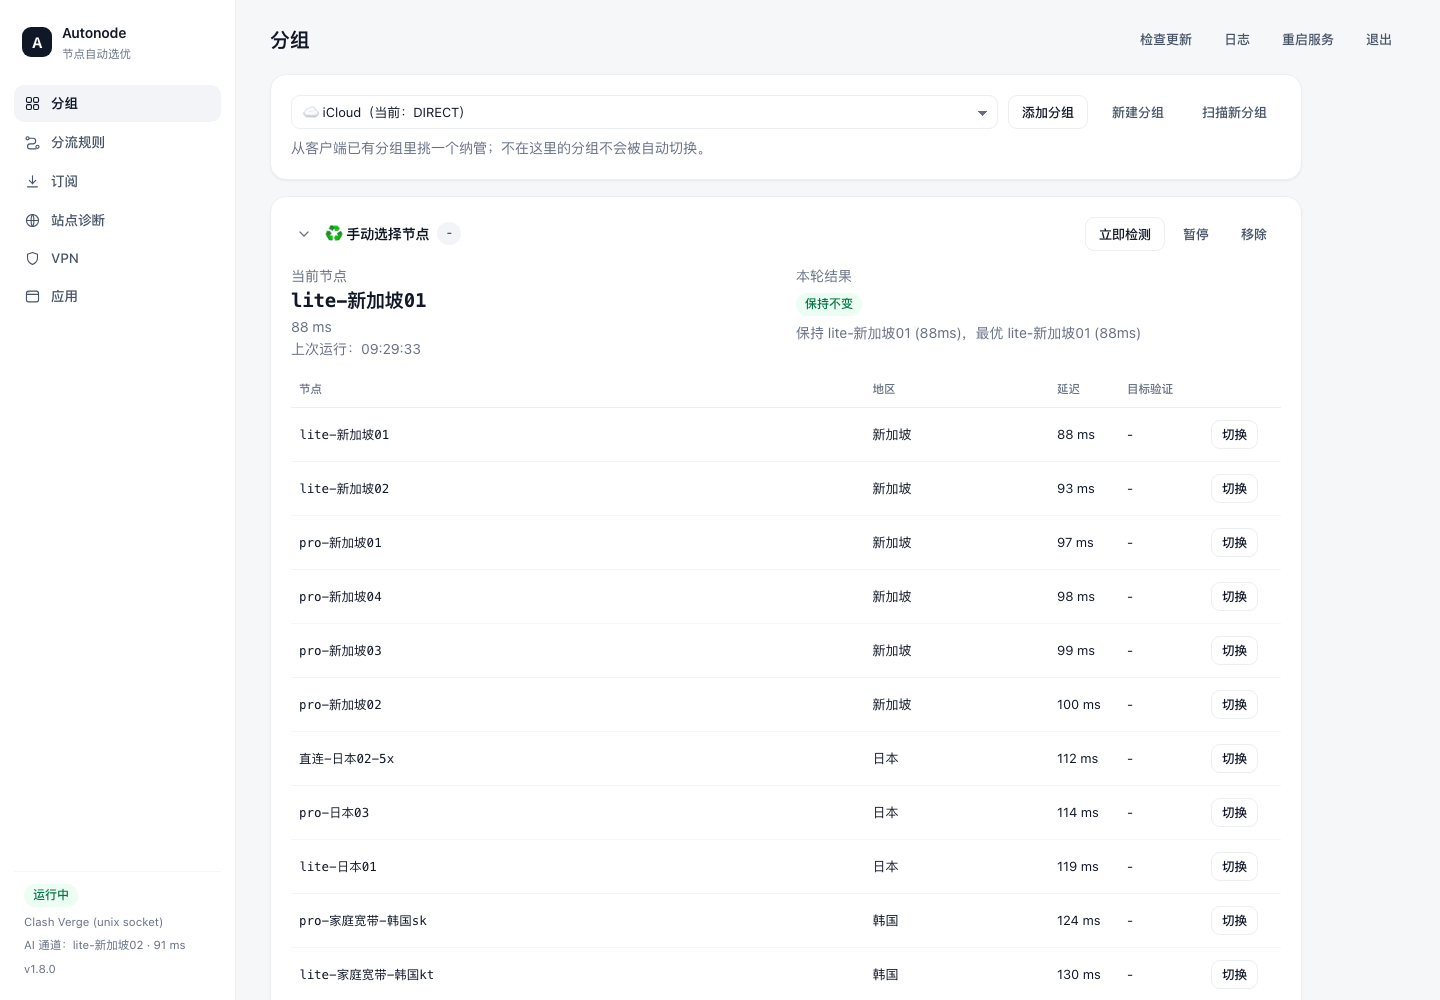
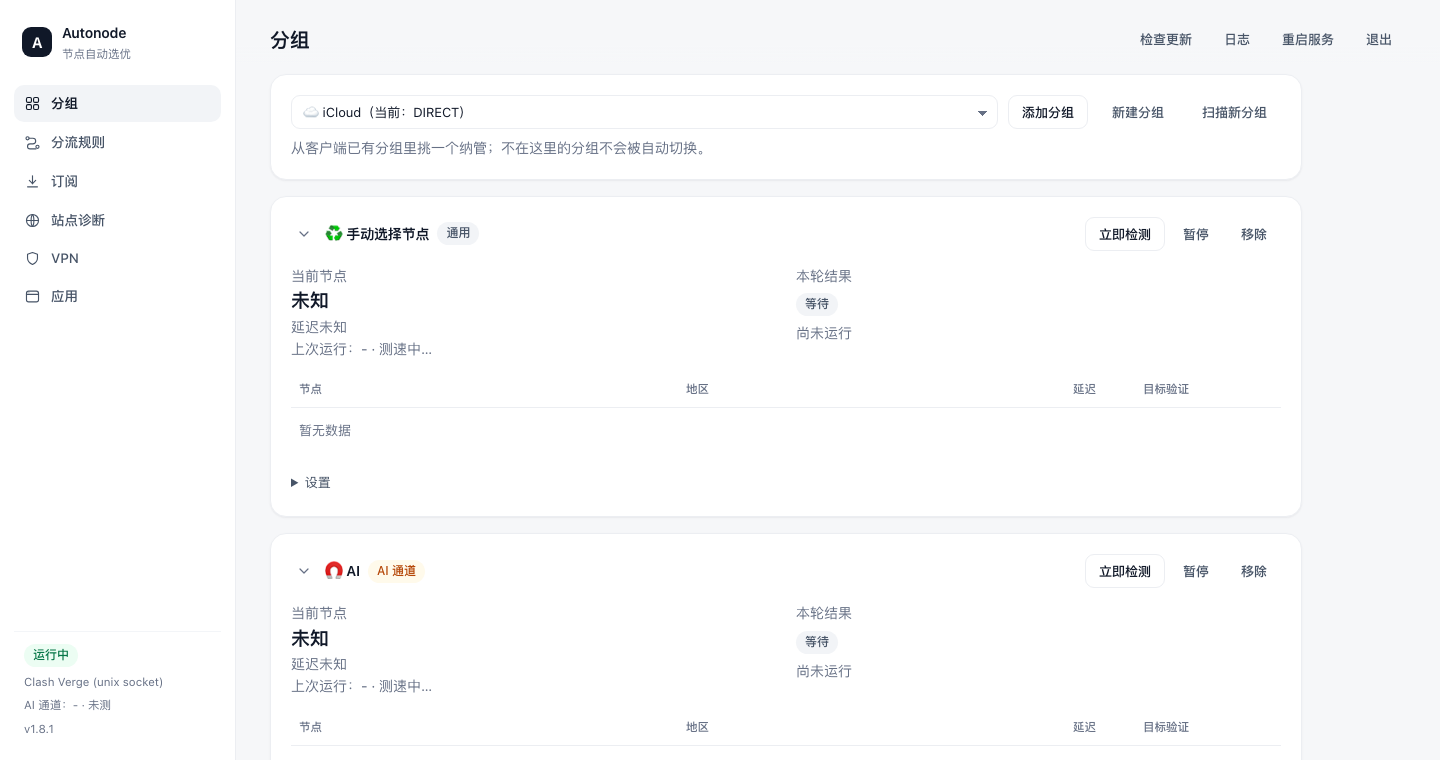
style: 去掉分组标题旁的空状态徽标，改为角色徽标

diff --git a/autonode.py b/autonode.py
@@ -40,7 +40,7 @@ import webbrowser
 from datetime import datetime
 from http.server import BaseHTTPRequestHandler, ThreadingHTTPServer
 
-VERSION = "1.8.1"
+VERSION = "1.8.2"
 
 BASE_DIR = os.path.expanduser("~/.config/autonode")
 CONFIG_FILE = os.path.join(BASE_DIR, "config.json")
@@ -2325,7 +2325,7 @@ function groupCard(g){
     + '<div class="ghd"><div style="display:flex;align-items:center;gap:8px;flex-wrap:wrap">'
     + '<button class="iconbtn" data-act="collapse" title="收起/展开">'
     + '<svg viewBox="0 0 24 24"><path d="m6 9 6 6 6-6"/></svg></button>'
-    + '<span class="gname">'+g.label+'</span> <span class="badge" data-role="state">-</span>'
+    + '<span class="gname">'+g.label+'</span> <span class="badge" data-role="role" style="display:none"></span>'
     + ' <span class="gsum" data-role="summary"></span></div>'
     + '<div class="row"><button data-act="run">立即检测</button>'
     + '<button data-act="toggle" class="ghost">暂停</button>'
@@ -2444,8 +2444,11 @@ function updateGroups(s){
     var card = document.querySelector('.gcard[data-gid="'+g.id+'"]'); if(!card) return;
     var st = g.status || {}, d = st.last_detail || {};
     var rb = card.querySelector('[data-role="role"]');
-    if(rb){ rb.textContent = (g.config.role === 'ai') ? 'AI 通道' : '通用';
-            rb.className = 'badge ' + (g.config.role === 'ai' ? 'warn' : ''); }
+    if(rb){
+      rb.textContent = (g.config.role === 'ai') ? 'AI 通道' : '通用';
+      rb.className = 'badge ' + (g.config.role === 'ai' ? 'warn' : '');
+      rb.style.display = '';
+    }
     card.querySelector('[data-role="current"]').textContent = st.current || '未知';
     card.querySelector('[data-role="meta"]').textContent = (st.current_ms ? st.current_ms+' ms' : '延迟未知');
     var hold = st.hold_remaining > 0 ? ' · 手动锁定 '+Math.ceil(st.hold_remaining/60)+' 分钟' : '';
